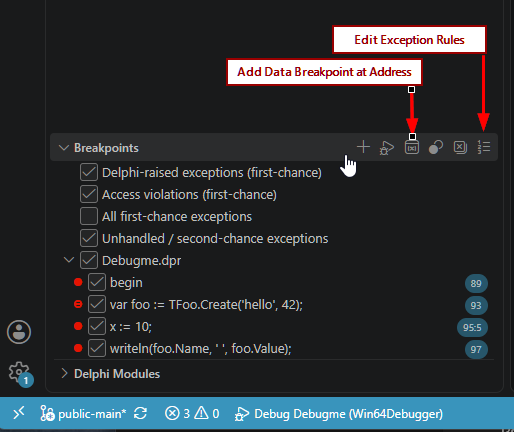
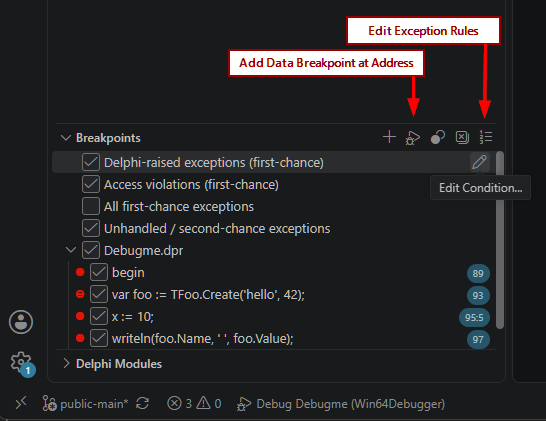
docs(debugger): swap in exception-filters screenshot showing the per-class Edit Condition pencil

Changed region(s): [[0.0, 0.3088, 1.0, 1.0], [0.4047, 0.0309, 0.9961, 0.8337], [0.0, 0.7411, 0.0623, 0.8029]]

diff --git a/products/delphi-debugger/vscode-tutorial/04-exception-handling.html b/products/delphi-debugger/vscode-tutorial/04-exception-handling.html
@@ -98,15 +98,16 @@
           </div>
           <figure class="doc-figure" data-screenshot="assets/screenshots/delphi-debugger/tutorial-04-exception-filters.png">
             <img src="../../../assets/screenshots/delphi-debugger/tutorial-04-exception-filters.png"
-                 alt="The BREAKPOINTS view with the four exception filters, their real labels and default ticks. Two title-bar icons are called out: Edit Exception Rules and Add Data Breakpoint at Address."
-                 width="514" height="432">
-            <figcaption>The four filters with their real labels and default ticks. The two callouts are
+                 alt="The BREAKPOINTS view with the four exception filters, their real labels and default ticks. The mouse hovers the Delphi-raised exceptions row, showing its pencil icon and an Edit Condition tooltip. Two title-bar icons are called out: Edit Exception Rules and Add Data Breakpoint at Address."
+                 width="546" height="421">
+            <figcaption>The four filters with their real labels and default ticks. Hovering the
+            <code>delphi</code> row reveals its pencil — <em>Edit Condition&hellip;</em> — which is
+            where the <code>delphiExceptionClasses</code> allowlist gets set from the GUI; the other
+            three filters have no such affordance, since they are plain on/off. The two callouts are
             title-bar icons that only appear when the mouse is over the view — <em>Edit Exception
             Rules&hellip;</em>, covered <a href="#editing-rules">below</a>, and <em>Add Data Breakpoint at
-            Address</em>, which belongs to <a href="03-breakpoints.html#data">data
-            breakpoints</a> and has nothing to do with exceptions. The pencil that edits the
-            <code>delphi</code> filter&rsquo;s class list only shows up on hover over that one row, so it
-            is not visible in this shot.</figcaption>
+            Address</em>, which belongs to <a href="03-breakpoints.html#data">data breakpoints</a> and
+            has nothing to do with exceptions.</figcaption>
           </figure>
 
           <p>
